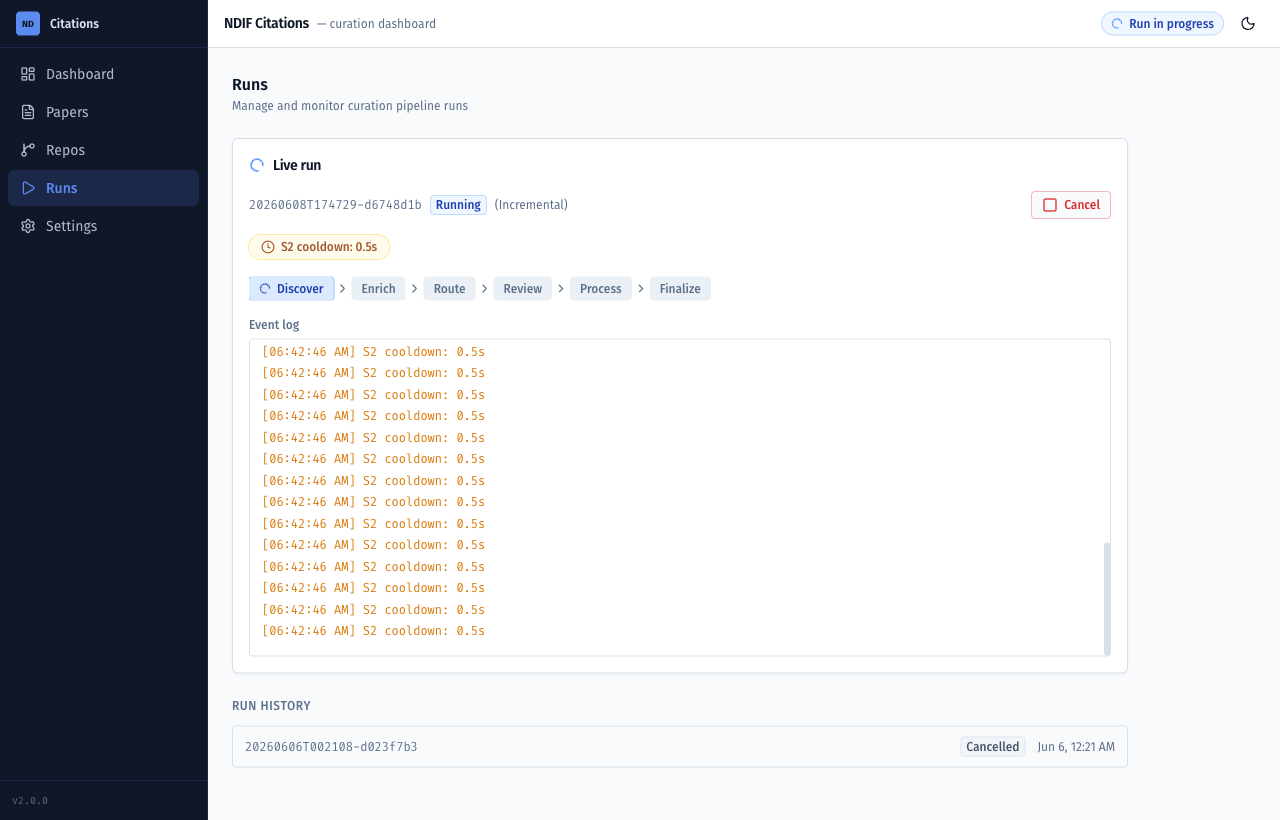
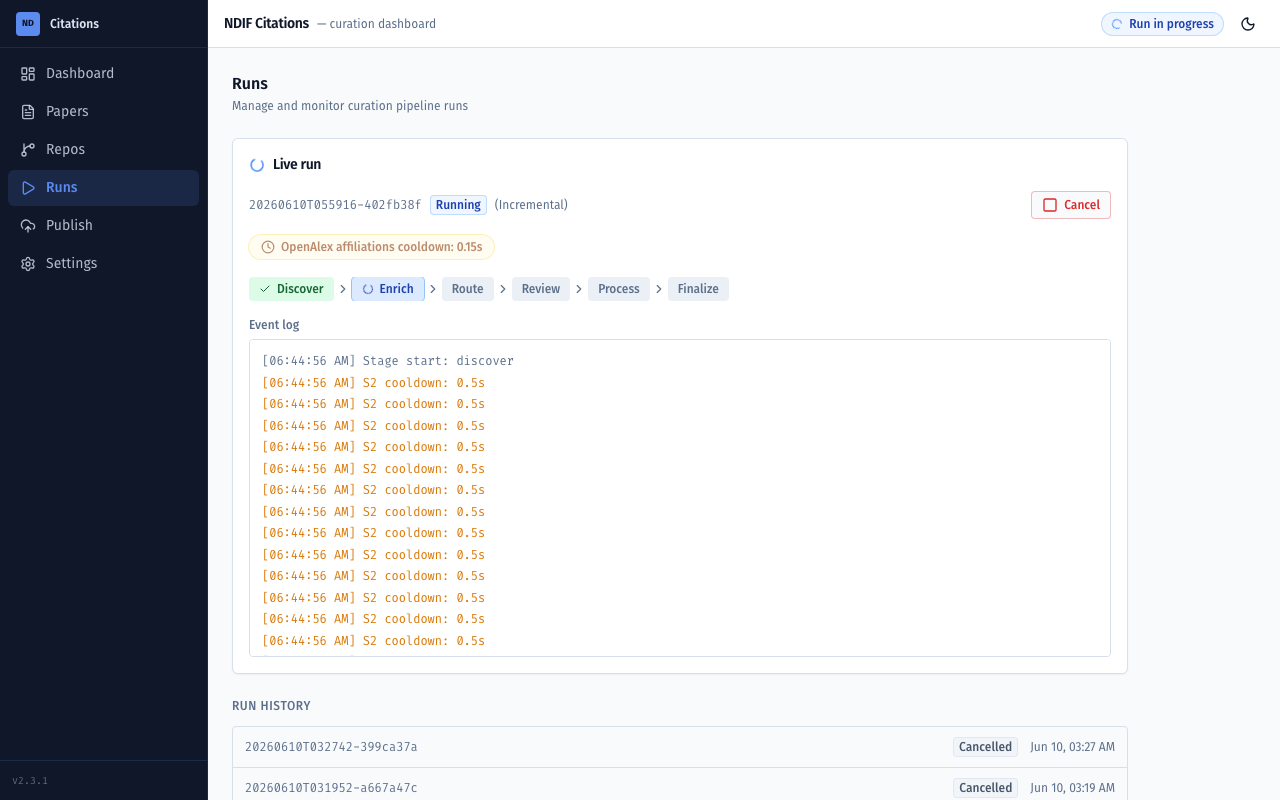
docs: refresh main README for v2.2–2.3.1 + retake live-run screenshot
README was stale at v2.1.0 and still described publishing as a Settings
action:
- Releases: add v2.2.0 (run results + PDF curation), v2.3.0 (Publish tab
  + Export .xlsx + date-added sort), v2.3.1 (cancel-mid-run, key quoting).
- Screens table: Publish is now its own nav tab (not under Settings);
  add a Publish row, drop publish from Settings, note date-added sort,
  backfill evidence, and the run Results panel. Link the curator guide.

Onboarding: retake onboarding/images/04-run-live.png — the old shot was
v2.0 nav and an all-"S2 cooldown" event log that looked stuck. New shot
is v2.3.1 (Publish nav) with the phase stepper showing Discover done →
Enrich active. Captured by starting an incremental run and cancelling
before the gate; catalog untouched (zero LLM spend).

diff --git a/README.md b/README.md
@@ -19,8 +19,11 @@ Two front-ends drive the **same** pipeline: the **CLI** runs it straight through
 - **v1.9.0 — CLI app.** Discovery (S2 / OpenAlex / Scholar / GitHub), metadata enrichment, LLM classification with confidence bands, and catalog + spreadsheet output.
 - **v2.0.0 — adds the local web app** (`serve`): data-dense dashboard, a curation workspace (browse / edit / promote / discard / reprocess, cached-PDF + figure + evidence views), a run console with a pre-LLM review gate, robust metadata re-enrichment (`re-enrich`), and one-click publish to the site. The CLI is unchanged.
 - **v2.1.0 — QA hardening + API-key management.** API Keys settings tab with real credential validation (1-token LLM check, SerpAPI account check), humanized Test results, Clear buttons, and run-start preflight that live-checks keys. Run console now reports *honest* LLM work — distinguishes processed from already-complete papers and previews true work at the review gate (no more "Processing 113/128" for a 1-paper approval). Live runs snapshot the catalog before overwriting it; the seed paper can no longer leak into the gate; abstracts are stripped of raw LaTeX during enrichment; the SPA shell is served `no-store` so a rebuild never serves a stale bundle; PaperSheet opens without a Radix a11y console error.
+- **v2.2.0 — run results + PDF curation.** Per-run **Results panel** (what each run added/changed, deep-link straight to a paper), PDF-upload de-dup + attach, a standalone **Backfill evidence** action, ungated manual-add, and evidence de-duplication.
+- **v2.3.0 — Publish tab + export + sort.** **Publish** promoted to its own nav tab with what-to-publish (papers / repos) scope, one-click **Export .xlsx** (Papers / Pending / Discarded / GitHub), and a **Date added ↓/↑** sort on the Papers page.
+- **v2.3.1 — reliability.** **Cancel** now stops a run mid-Discover/Enrich (not just at the gate), live-run spinner/scroll fixes, and API keys written to `.env` unquoted.
 
-See [Releases](https://github.com/ndif-team/ndif-citations/releases) for notes.
+See [Releases](https://github.com/ndif-team/ndif-citations/releases) for notes. A non-coding, end-to-end **[curator walkthrough](onboarding/README.md)** tracks the current (v2.3.1) UI.
 
 ## Quick start
 
@@ -63,10 +66,11 @@ The server (FastAPI) hosts a React SPA plus a JSON API at `/api` (`/docs` for Sw
 | Screen | What it does |
 |--------|--------------|
 | **Dashboard** | Catalog KPIs and category breakdown |
-| **Papers** | Browse / filter the catalog, inline-edit 16 curated fields, promote / demote / discard, batch-reprocess, manage thumbnails, attach PDFs, on-demand summarize / categorize. Flags column marks curator-locked (🔒) and missing-metadata (⚠) rows |
-| **Runs** | Trigger a run, watch live progress over SSE (phase stepper, per-source rate-limit cooldowns, event log), cancel, browse history. **Incremental runs pause at a review gate before any LLM spend** — the gate previews the *true* work (your selected candidates + automatic gap-fills, with already-complete papers skipped) so you approve first |
+| **Papers** | Browse / filter / sort (incl. **date added**) the catalog, inline-edit 16 curated fields, promote / demote / discard, batch-reprocess, manage thumbnails, attach PDFs, **backfill evidence**, on-demand summarize / categorize. Flags column marks curator-locked (🔒) and missing-metadata (⚠) rows |
+| **Runs** | Trigger a run, watch live progress over SSE (phase stepper, per-source rate-limit cooldowns, event log), cancel (stops mid-run), browse history, and review a finished run's **Results panel**. **Incremental runs pause at a review gate before any LLM spend** — the gate previews the *true* work (your selected candidates + automatic gap-fills, with already-complete papers skipped) so you approve first |
 | **Repos** | Browse / edit / exclude discovered GitHub repos |
-| **Settings** | Edit pipeline knobs and known venues; manage **API keys** (validate with a live Test, clear); **publish** the catalog to the `ndif-website` site (dry-run diff first, then apply) |
+| **Publish** | Push the curated catalog to the `ndif-website` site — choose what to publish (papers / repos), preview with a **dry-run diff**, then apply. Also **Export .xlsx** (full catalog workbook) |
+| **Settings** | Edit pipeline knobs and known venues; manage **API keys** (validate with a live Test, clear) |
 
 Everything the UI does maps to a CLI command, so the two workflows are interchangeable.
 
